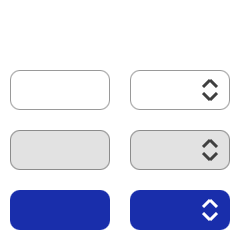
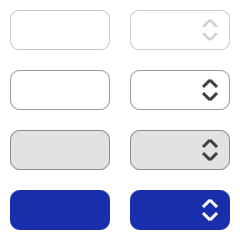
mcsim: activate controls

diff --git a/tools/mcsim/ControlsPane.js b/tools/mcsim/ControlsPane.js
@@ -219,12 +219,19 @@ var ControlsMenuItem = Row.template($ => ({
 export var ControlsColumn = Column.template($ => ({ left:0, right:0, top:0 }));
 
 export var Button = Container.template($ => ({
-	width:80, height:30, skin:buttonSkin, active:("active" in $) ? $.active : true,
+	width:80, height:30, skin:buttonSkin, active:true,
 	Behavior: class extends ButtonBehavior {
-		onCreate(container, data) {
-			super.onCreate(container, data);
+		activate(container, active) {
+			container.active = active;
+			this.onStateChanged(container);
+		}
+		onDisplaying(container) {
+			let data = this.data;
+			if ("active" in data)
+				this.activate(container, data.active);
 			if ("name" in data)
 				model.DEVICE.first.behavior[data.name] = container;
+			super.onDisplaying(container);
 		}
 		onTouchBegan(container, id, x, y, ticks) {
 			super.onTouchBegan(container, id, x, y, ticks);
@@ -287,14 +294,17 @@ export var PopupRow = Row.template(function($) { return {
 		Container($, { 
 			width:160, height:30, active:true, skin:buttonSkin, variant:1,
 			Behavior: class extends ButtonBehavior {
-				onCreate(container, data) {
-					super.onCreate(container, data);
-					if ("name" in data)
-						model.DEVICE.first.behavior[data.name] = container;
+				activate(container, active) {
+					container.active = active;
+					this.onStateChanged(container);
 				}
 				onDisplaying(container) {
-					super.onDisplaying(container);
 					let data = this.data;
+					if ("active" in data)
+						this.activate(container, data.active);
+					if ("name" in data)
+						model.DEVICE.first.behavior[data.name] = container;
+					super.onDisplaying(container);
 					this.selection = data.items.findIndex(item => item.value == data.value);
 					container.first.string = data.items[this.selection].title;
 				}
@@ -332,10 +342,24 @@ export var SliderRow = Row.template(function($) { return {
 		HorizontalSlider($, { 
 			width:160, barSkin: sliderBarSkin, buttonSkin: sliderButtonSkin,
 			Behavior: class extends HorizontalSliderBehavior {
-				onCreate(container, data) {
-					super.onCreate(container, data);
+				activate(container, active) {
+					var button = container.last;
+					var bar = button.previous;
+					var background = bar.previous;
+					var label = container.next;
+					container.active = active;
+					background.variant = active ? 0 : 1;
+					bar.variant = active ? 0 : 1;
+					button.variant = active ? 0 : 1;
+					label.state = active ? 0 : 1;
+				}
+				onDisplaying(container) {
+					let data = this.data;
+					if ("active" in data)
+						this.activate(container, data.active);
 					if ("name" in data)
 						model.DEVICE.first.behavior[data.name] = container;
+					super.onDisplaying(container);
 				}
 				onValueChanged(container) {
 					let data = this.data;
@@ -358,10 +382,22 @@ export var SwitchRow = Row.template(function($) { return {
 		Switch($, {
 			barSkin: switchBarSkin, buttonSkin: switchButtonSkin,
 			Behavior: class extends SwitchBehavior {
-				onCreate(container, data) {
-					super.onCreate(container, data);
+				activate(container, active) {
+					var bar = container.first;
+					var button = bar.next;
+					var label = container.next;
+					container.active = active;
+					bar.variant = active ? 0 : 1;
+					button.variant = active ? 0 : 1;
+					label.state = active ? 0 : 1;
+				}
+				onDisplaying(container) {
+					let data = this.data;
+					if ("active" in data)
+						this.activate(container, data.active);
 					if ("name" in data)
 						model.DEVICE.first.behavior[data.name] = container;
+					super.onDisplaying(container);
 				}
 				onValueChanged(container) {
 					let data = this.data;
@@ -381,10 +417,11 @@ export var TimerRow = Row.template(function($) { return {
 			this.data = data;
 			if ("interval" in data)
 				row.interval = data.interval;
-			if ("name" in data)
-				model.DEVICE.first.behavior[data.name] = row;
 		}
 		onDisplaying(row) {
+			let data = this.data;
+			if ("name" in data)
+				model.DEVICE.first.behavior[data.name] = row;
 			let container = row.first.next;
 			container.next.string = this.secondsToString(0);
 		}

diff --git a/tools/mcsim/assets.js b/tools/mcsim/assets.js
@@ -51,7 +51,7 @@ export const applicationStyle = { font:"12px Open Sans" };
 export const controlsScrollerSkin = { fill:GRAYS[2] };
 export const controlRowSkin = { fill:[GRAYS[2], GRAYS[6]] };
 export const controlNameStyle = { color:GRAYS[85], horizontal:"left", left:10 };
-export const controlValueStyle = { font:"light", color:GRAYS[85], horizontal:"left", left:10 };
+export const controlValueStyle = { font:"light", color:[GRAYS[85],GRAYS[19]], horizontal:"left", left:10 };
 
 const dialogTexture = { path:"assets/dialog.png", scale:1 };
 const menuTexture = { path:"assets/menu.png", scale:2 };
@@ -74,12 +74,12 @@ const dotTexture = { path:"assets/dot.png", scale:2 };
 export const dotSkin = { texture:dotTexture, x:0, y:0, width:20, height:30 };
 
 const sliderTexture = { path:"assets/slider.png", scale:2};
-export const sliderBarSkin = { texture:sliderTexture, x:0, y:0, width:60, height:30, left:15, right:15, states:30 };
-export const sliderButtonSkin = { texture:sliderTexture, x:60, y:0, width:30, height:30, states:30 };
+export const sliderBarSkin = { texture:sliderTexture, x:0, y:0, width:60, height:30, left:15, right:15, variants:90, states:30 };
+export const sliderButtonSkin = { texture:sliderTexture, x:60, y:0, width:30, height:30, variants:90, states:30 };
 
 const switchTexture = { path:"assets/switch.png", scale:2 };
-export const switchBarSkin = { texture:switchTexture, x:0, y:0, width:60, height:30, states:30, tiles: { left:20, right:20 }  };
-export const switchButtonSkin = { texture:switchTexture, x:60, y:0, width:30, height:30, states:30 };
+export const switchBarSkin = { texture:switchTexture, x:0, y:0, width:60, height:30, variants:90, states:30, tiles: { left:20, right:20 }  };
+export const switchButtonSkin = { texture:switchTexture, x:60, y:0, width:30, height:30, variants:90, states:30 };
 
 export const paneBackgroundSkin = { fill:GRAYS[6] };
 export const paneBodySkin = { fill:GRAYS[2] };
